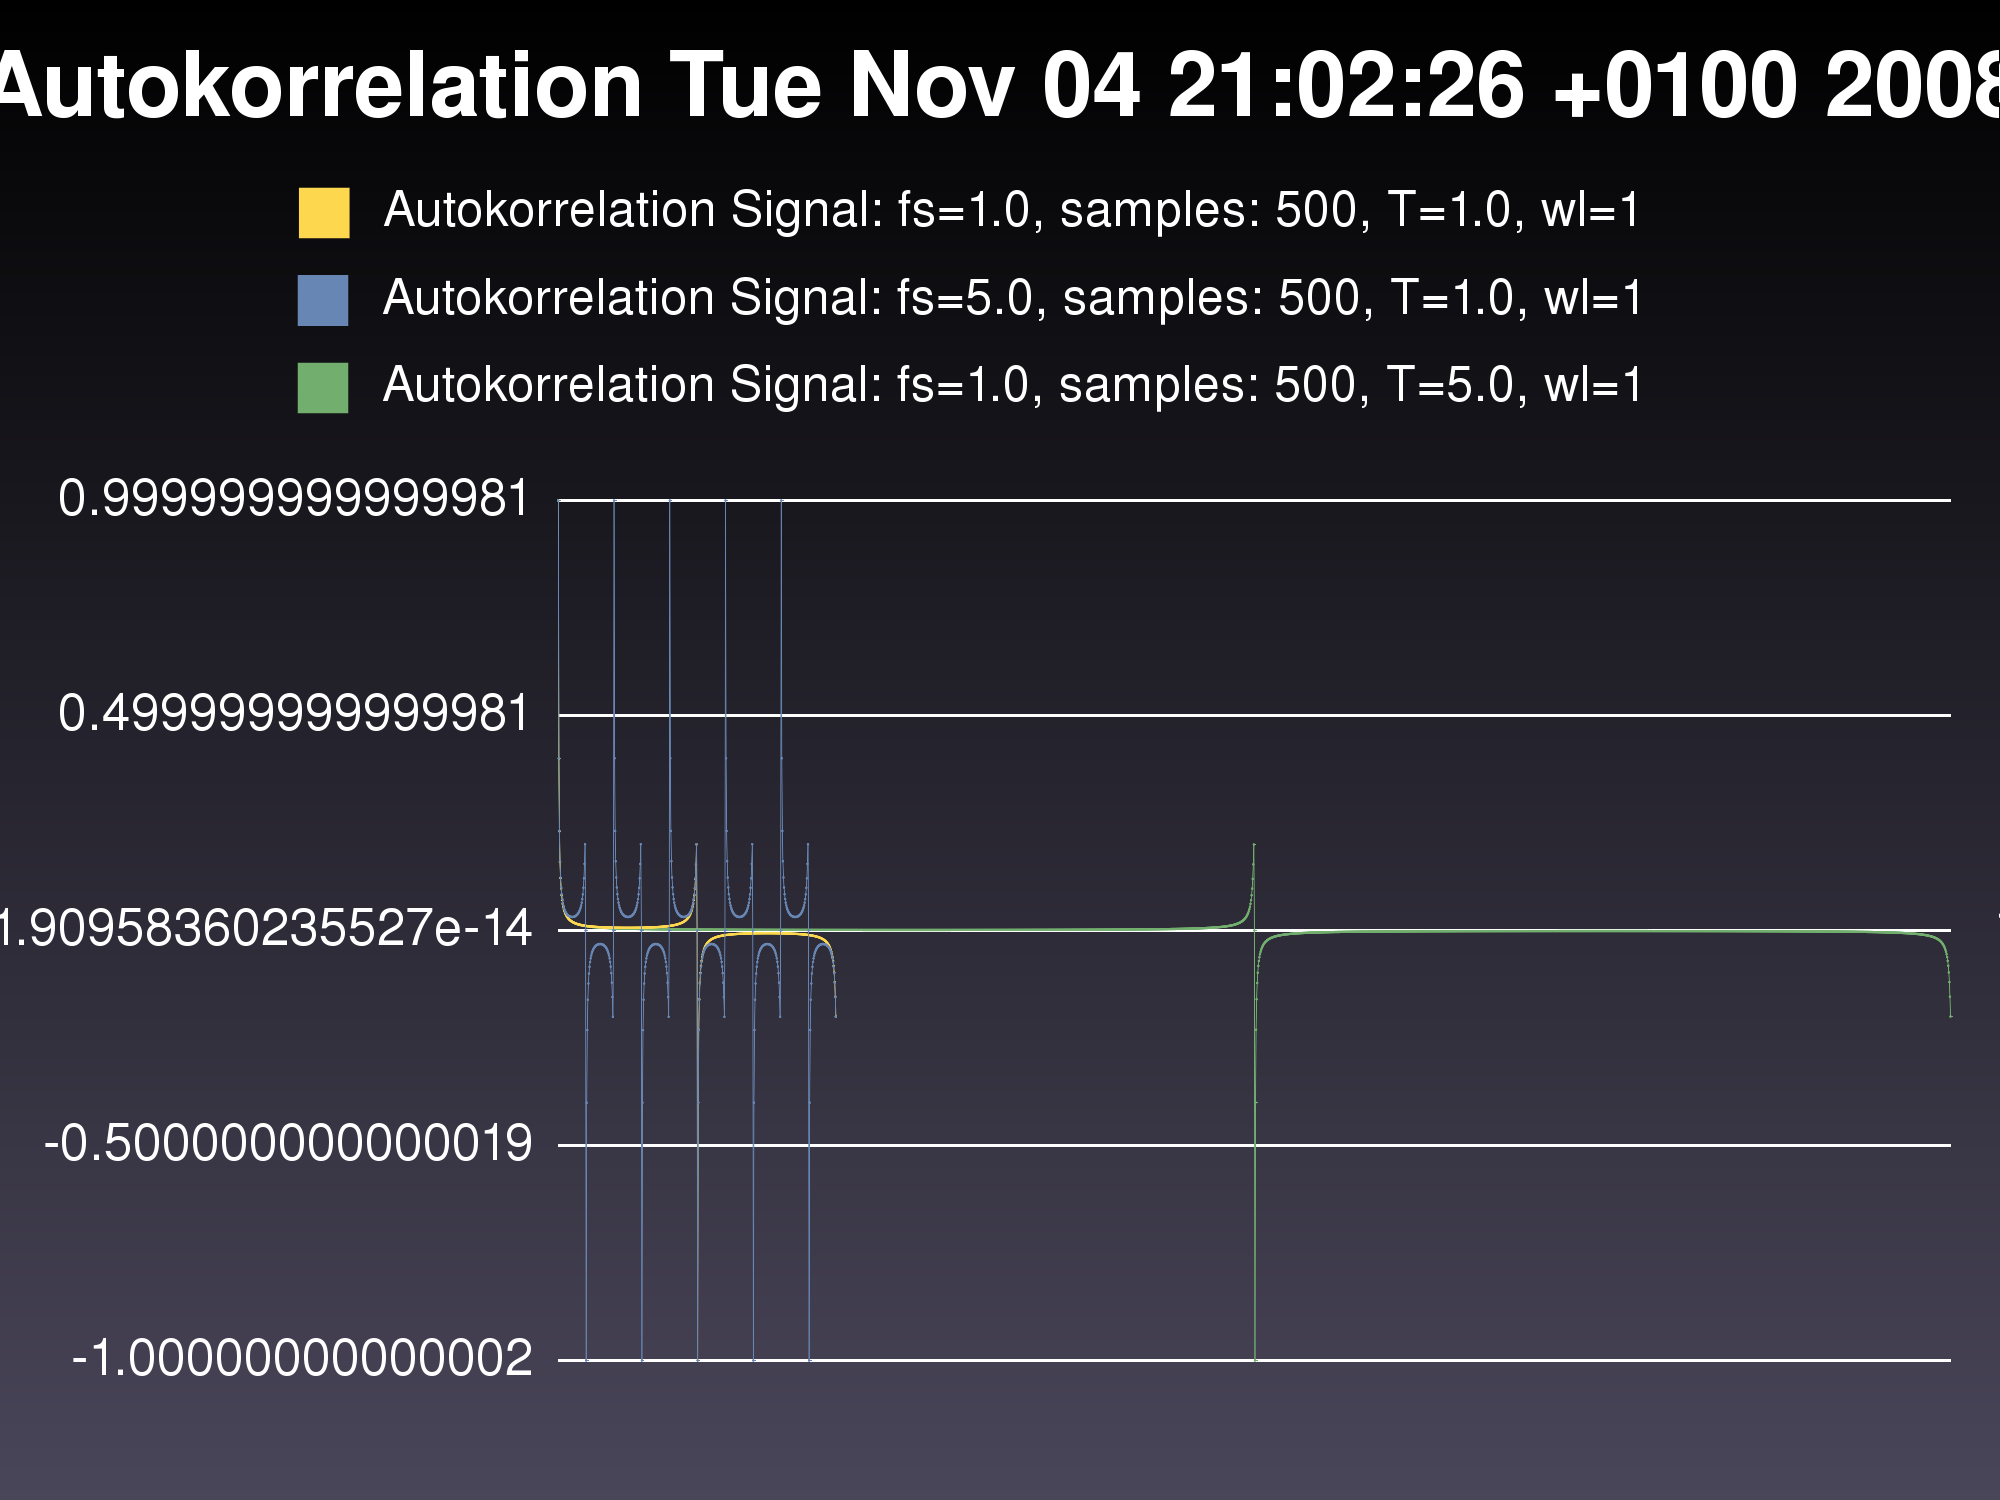
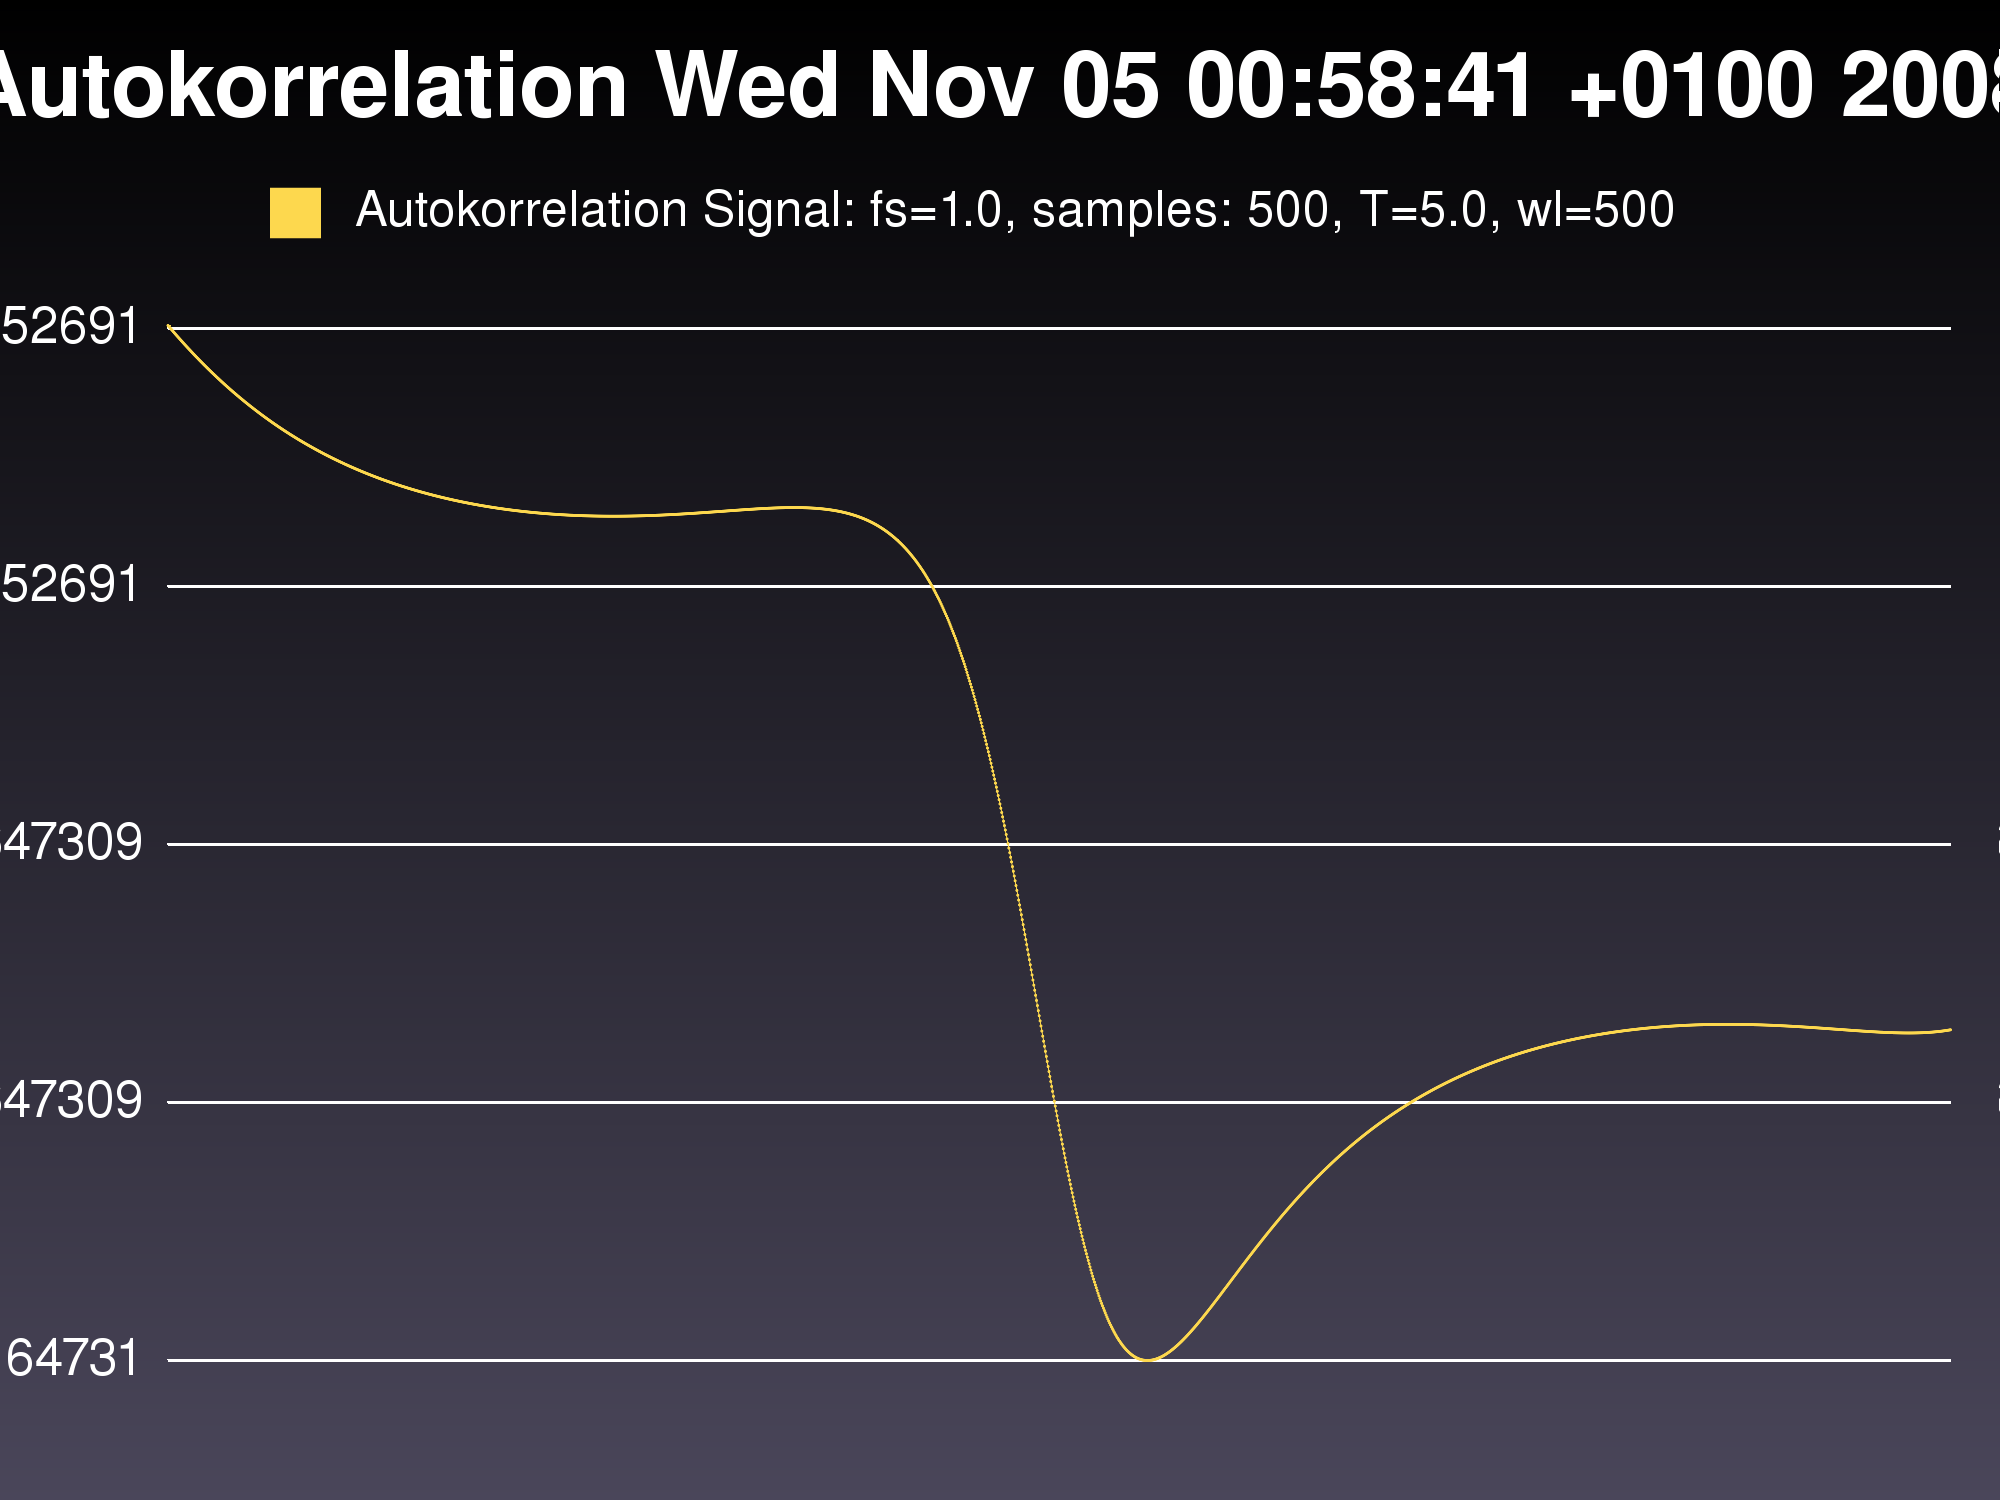
testing autocorrelation method

diff --git a/nwgdm.rb b/nwgdm.rb
@@ -1,20 +1,6 @@
-class NWGDM
+class NWGDM 
   
-  # http://paste.frubar.net/8451/txt
-  #
-  # //Sinus Abtasten
-  #   sinus = new double[abtastwerte];
-  #   if (sinus == NULL) {
-  #     fprintf(stderr, "new double[abtastwerte] failed.\n");
-  #     return (-1);  
-  #   } 
-  #   double step = (2*PI) / abtastwerte;
-  #   for (int i = 0; i < abtastwerte; i++) {
-  #     sinus[i] = sin(frequenz*i*step);
-  #   }
-  #   plot("sinus", sinus, abtastwerte, 0, (2*PI), "lines", "Sinus", "x", "y");
-  
-  
+  # Sampling a signal
   def sample_sinus(f_signal, f_sample, duration)
     # f(t) = A*sin(wt+phi) = A*sin(2pi*f*t+phi) = A*sin(2pi*(1/T)*t+phi)
     result = []
@@ -25,22 +11,40 @@ class NWGDM
      result
   end
   
+  
+  # float_vec_t LPCAnalysis::autoCorrelation(const float_vec_t &x)
+  # {
+  #     short order=x.size();
+  # 
+  #     float_vec_t R(order);
+  #     float sum;
+  #     int i,j;
+  # 
+  #     for (i=0;i<order;i++) {
+  #         sum=0;
+  #         for (j=0;j<order-i;j++) {
+  #             sum+=x[j]*x[j+i];
+  #         }
+  #         R[i]=sum;
+  #     }
+  #     return R;
+  # }
+  
+  
+  # Calculating the Autocorrelation for a given signal
   def acf(signal, windowlength)
     n = signal.size
     denominator = 0.0
     acf = []
-    for i in 0..(n-1-windowlength) do
+    for i in 0..(n-windowlength-1) do
       acf[i] = 0
       denominator = 0.0
-      
       for k in 0..windowlength do
-        acf[i] = acf[i] + signal[k] * signal[k+i]
-        denominator = denominator+signal[k+i]*signal[k+i]
+        acf[i] += signal[k] * signal[k+i]
+        denominator += signal[k+i]*signal[k+i]
       end
-      
       acf[i] = acf[i]/denominator
     end
-    
     return acf
   end
   

diff --git a/nwgdm_test.rb b/nwgdm_test.rb
@@ -8,11 +8,11 @@ c = NWGDM.new
 # Parameter: Signal Frequence (Hz/s), Sample Frequenze (Hz/s), Duration (e.g. 5 seconds)
 
 SAMPLES = 500
-WINDOW_LENGTH = 1
+WINDOW_LENGTH = 500
 
-signal_frequence = 1.0
+signal_frequence = 5.0
 samples = SAMPLES
-duration = 1.0
+duration = 5.0
 
 signal_frequence_1 = 5.0
 samples_1 = SAMPLES
@@ -46,7 +46,6 @@ puts 'Printing signal...'
 puts 'Generate print...'
 sig = Gruff::Line.new(2000)
 sig.title = "Signal, #{Time.now}" 
-sig.theme_37signals()
 puts 'Prepraing data...'
 sig.data("Signal, fs=#{signal_frequence}, samples= #{samples}, T= #{duration}", signal)
 sig.data("Signal, fs=#{signal_frequence_1}, samples=#{samples_1}, T=#{duration_1}", signal_1)
@@ -74,9 +73,10 @@ puts 'Printing autocorrelation...'
 acf = Gruff::Line.new(2000)
 acf.title = "Autokorrelation #{Time.now}"
 puts 'Prepraing data...'
-acf.data("Autokorrelation Signal: fs=#{signal_frequence}, samples: #{samples}, T=#{duration}, wl=#{WINDOW_LENGTH}", acfs)
-acf.data("Autokorrelation Signal: fs=#{signal_frequence_1}, samples: #{samples_1}, T=#{duration_1}, wl=#{WINDOW_LENGTH}", acfs_1)
+# acf.data("Autokorrelation Signal: fs=#{signal_frequence}, samples: #{samples}, T=#{duration}, wl=#{WINDOW_LENGTH}", acfs)
+# acf.data("Autokorrelation Signal: fs=#{signal_frequence_1}, samples: #{samples_1}, T=#{duration_1}, wl=#{WINDOW_LENGTH}", acfs_1)
 acf.data("Autokorrelation Signal: fs=#{signal_frequence_2}, samples: #{samples_2}, T=#{duration_2}, wl=#{WINDOW_LENGTH}", acfs_2)
 # acf.data("Autokorrelation Signal: fs=#{signal_frequence_3}, samples: #{samples_3}, T=#{duration_3}, wl=#{WINDOW_LENGTH}", acfs_3)
+
 acf.write('autokorrelation.png')
 puts 'Done'

diff --git a/test.rb b/test.rb
@@ -18,7 +18,7 @@ end
 
 puts "e = #{e}"
 
-# File writer
+## File writer
 # 
 # fh = FileHelper.new('sinus.csv')
 # fh.write_to_file(signal)
@@ -26,10 +26,26 @@ puts "e = #{e}"
 # fh.write_to_file(acfs)
 
 
-# Hash to array
+## Hash to array
 # require 'array'
 # a = []
 # for i in 0..1000 do
 #   a << i
 # end
 # c = a.to_hash_keys {|v| a.index(v).to_s}
+
+## Sampling a signal
+# http://paste.frubar.net/8451/txt
+#
+# //Sinus Abtasten
+#   sinus = new double[abtastwerte];
+#   if (sinus == NULL) {
+#     fprintf(stderr, "new double[abtastwerte] failed.\n");
+#     return (-1);  
+#   } 
+#   double step = (2*PI) / abtastwerte;
+#   for (int i = 0; i < abtastwerte; i++) {
+#     sinus[i] = sin(frequenz*i*step);
+#   }
+#   plot("sinus", sinus, abtastwerte, 0, (2*PI), "lines", "Sinus", "x", "y");
+
